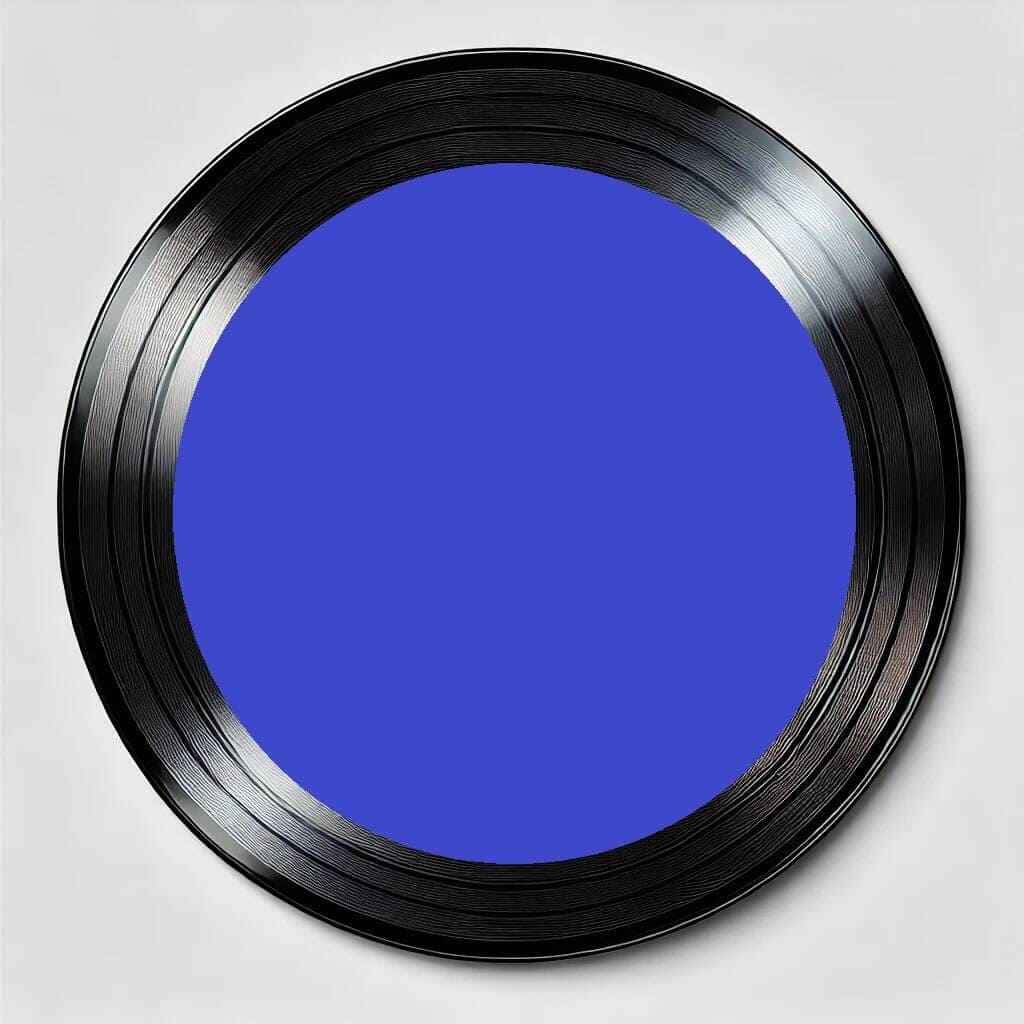
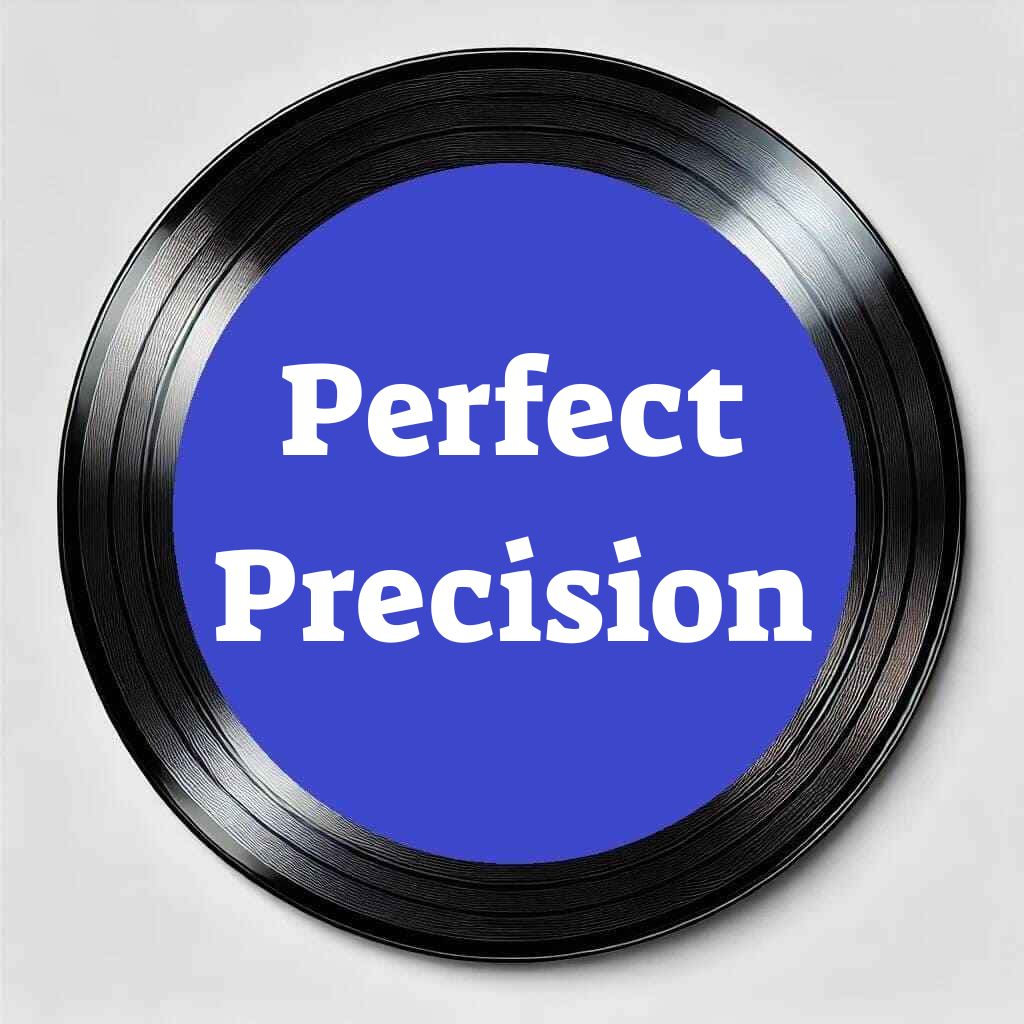
Add files via upload

Changed region(s): [[0.1875, 0.5, 0.8125, 0.625], [0.25, 0.3438, 0.75, 0.4688]]

diff --git a/methood_choose.py b/methood_choose.py
@@ -28,11 +28,11 @@ def method_choose_page():
     st.markdown("""
         <style>
             .block-container {
-                padding-top: 50px !important;
+                padding-top: 30px !important;
             }
             .header-container {
                 background-color: rgba(0, 0, 50, 0.99);
-                padding: 10px;
+                padding: 8px;
                 text-align: center;
                 margin: 0 auto 10px auto !important;
 
@@ -40,7 +40,7 @@ def method_choose_page():
 
             .header-text {
                 color: #ADD8E6;
-                font-size: 26px !important;
+                font-size: 24px !important;
                 margin: 0;
                 font-weight: bold;
             }
@@ -53,7 +53,7 @@ def method_choose_page():
 
             .explanation-container {
                 background-color: rgba(30, 30, 60, 0.95);
-                padding: 8px;
+                padding: 6px;
                 border-radius: 20px;
                 margin-top: 0px;
             }
@@ -84,8 +84,8 @@ def method_choose_page():
     st.markdown("""
         <style>
         .st-key-aa button, .st-key-bb button, .st-key-cc button {
-            width: 130px;
-            height: 130px;
+            width: 105px;
+            height: 105px;
             background-color: transparent;
             border: none;
             cursor: pointer;
@@ -117,6 +117,6 @@ def method_choose_page():
     col1, col2, col3 = st.columns([1,1,1])
 
     with col2:
-        st.button("Perfect Precision", key="aa", on_click=click_a, use_container_width=True)
-        st.button("Relevant\nSet", key="bb", on_click=click_b, use_container_width=True)
-        st.button("Ordered\nList", key="cc", on_click=click_c, use_container_width=True)
+        st.button("", key="aa", on_click=click_a, use_container_width=True)
+        st.button("", key="bb", on_click=click_b, use_container_width=True)
+        st.button("", key="cc", on_click=click_c, use_container_width=True)

diff --git a/know_the_persona.py b/know_the_persona.py
@@ -22,7 +22,7 @@ def know_the_persona_page():
     current_index = st.session_state.song_index
 
     if st.session_state.known_songs_count >= 3 or current_index >= len(st.session_state.persona_songs_df):
-        st.session_state.page = "research_page"
+        st.session_state.page = "method_choose"
         st.rerun()
     else:
         song_title = st.session_state.persona_songs_df.iloc[current_index]["name"]
